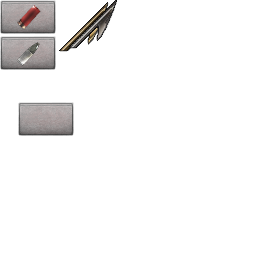
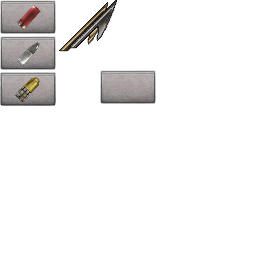
Added Grenade Launcher Ammo Box

Changed region(s): [[0.0, 0.2812, 0.3125, 0.5312], [0.375, 0.25, 0.625, 0.4062]]

diff --git a/README.md b/README.md
@@ -4,12 +4,14 @@ Mod for the game Barotrauma
 Added Items:
 Revolver Ammo Box (Container holding a maximum of 24 revolver rounds)
 Shotgun Ammo Box (Container holding a maximum of 12 shotgun shells)
+Grenade Launcher Ammo Box (Container holding a maximum of 4 grenades)
 Harpoonstack (Container holding a maximum of 12 harpoons)
 
-The revolver and shotgun ammo boxes are small items that can be stored anywhere.
-To make it a bit more realistic the harpoonstack is medium so it won't fit in a toolbox and some other containers.
+The ammo boxes are small items that can be stored anywhere except the harpoonstack.
+To make it a bit more realistic the harpoonstack is medium so it won't fit in a toolbox and some other small containers.
 
-A movable content window opens when any of the items are equiped to make reloading a little less clumsy. 
-If it annoys you, don't equip them, just use from the inventory. 
-Having two containers equiped(opened) at the same time is buggy. 
+A movable content window opens when any of the items are equiped(taken in had) to make reloading a little less clumsy. 
+(If you find that annoying, don't equip them, just use from the inventory.)
+
+Having two containers equiped at the same time is buggy. 
 The content window of one doesn't always appear even if they are not overlapping.
